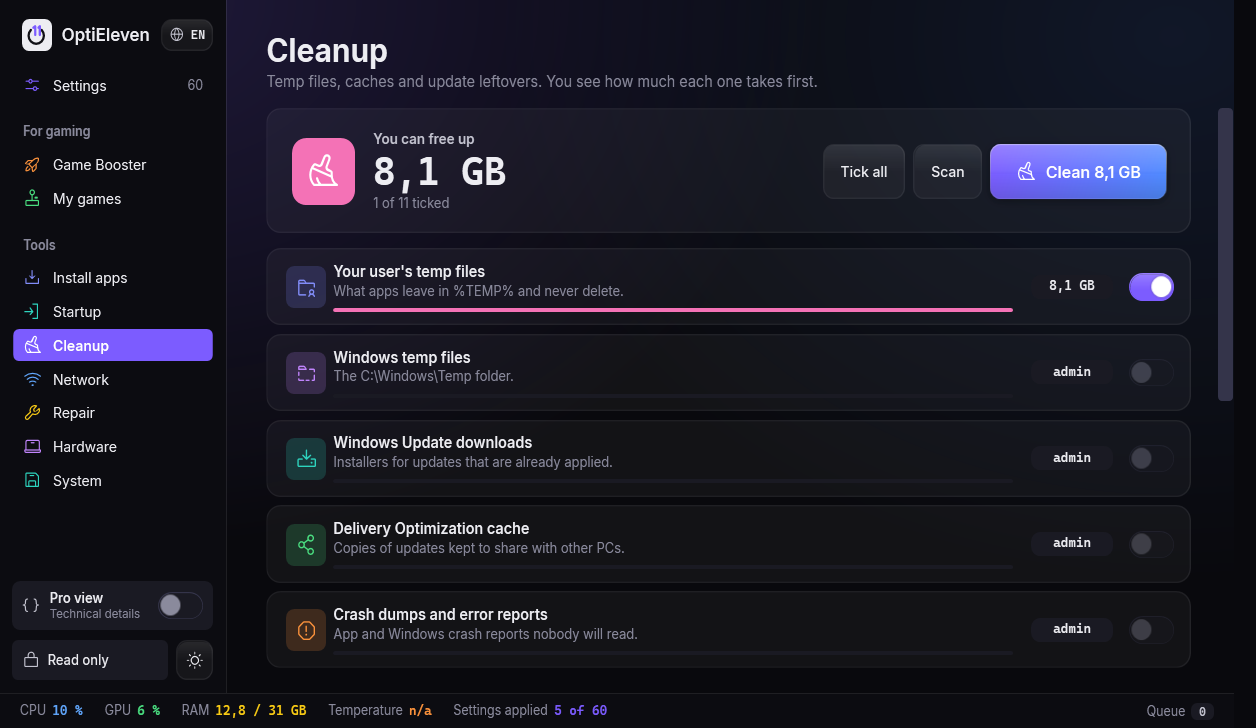
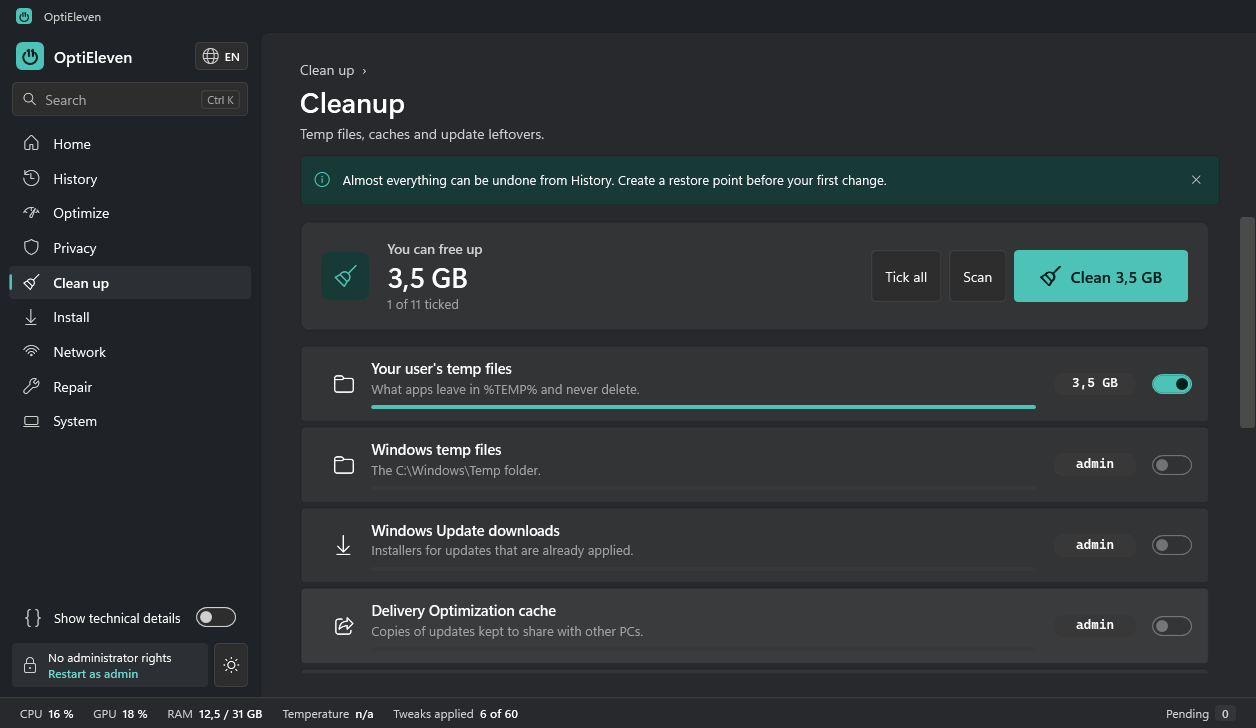
Docs and site for 2.0: optieleven.app command, 2.0 description and screenshots

diff --git a/docs/index.html b/docs/index.html
@@ -121,7 +121,7 @@
 <!-- Lo de abajo es el mismo run.ps1: esta página es a la vez HTML y PowerShell.
      Para PowerShell, todo el HTML de arriba está dentro de un comentario de bloque. #>
 # OptiEleven one-line launcher
-#   irm bila4l4.github.io/OptiEleven | iex
+#   irm optieleven.app | iex
 #
 # First run: downloads the latest release from GitHub into %LOCALAPPDATA%\OptiEleven and opens it.
 # Later runs: a quick check on GitHub; if there's a newer release it's installed first, then the panel

diff --git a/README.es.md b/README.es.md
@@ -4,95 +4,109 @@
 
 # OptiEleven
 
-**Optimizador reversible de Windows 11 para jugar.**
-Quita telemetría y basura, libera RAM antes de jugar y deshaz cualquier cambio con un clic.
+**Tu Windows 11, en un solo sitio.**
+Limpia, libera memoria, ajusta la privacidad y el rendimiento, instala apps y repara Windows. Todo se puede deshacer.
 
-[![Licencia: MIT](https://img.shields.io/badge/licencia-MIT-fc6b33)](LICENSE)
-![Windows 11](https://img.shields.io/badge/Windows-11-14110f)
-![PowerShell 5.1](https://img.shields.io/badge/PowerShell-5.1-14110f)
-![Sin instalación](https://img.shields.io/badge/instalaci%C3%B3n-ninguna-14110f)
+[![Licencia: MIT](https://img.shields.io/badge/licencia-MIT-0d7a72)](LICENSE)
+![Windows 11](https://img.shields.io/badge/Windows-11-1a1c1c)
+![PowerShell 5.1](https://img.shields.io/badge/PowerShell-5.1-1a1c1c)
 
 **Ábrelo con un comando.** Pega esto en PowerShell:
 
 ```powershell
-irm bila4l4.github.io/OptiEleven | iex
+irm optieleven.app | iex
 ```
 
-o [⬇ descarga OptiEleven.zip](https://github.com/bila4l4/OptiEleven/releases/latest/download/OptiEleven.zip), descomprímelo y haz doble clic en `OptiEleven.exe`. No hay nada que compilar ni instalar.
+o [descarga OptiEleven.zip](https://github.com/bila4l4/OptiEleven/releases/latest/download/OptiEleven.zip), descomprímelo y haz doble clic en `OptiEleven.exe`. Web: **[optieleven.app](https://optieleven.app)**
 
 [English](README.md) · Español
 
-<img src="docs/screenshots/settings-dark.png" alt="Página de ajustes de OptiEleven con la vista previa de cambios y la hoja de cambios">
+<img src="docs/screenshots/home-dark.png" alt="Inicio de OptiEleven: un anillo con la salud del PC (privacidad, rendimiento, espacio y arranque) y el botón Liberar memoria">
 
 </div>
 
 ## Por qué OptiEleven
 
-La mayoría de scripts de "debloat" son un montón de cambios en el registro que ejecutas una vez y cruzas los dedos. OptiEleven funciona al revés:
+- **Ves antes de aplicar.** Cada ajuste enseña en *Más info* los valores del registro, servicios y tareas que cambia, con el valor de ahora y el de después.
+- **Todo se puede deshacer.** La primera vez que aplicas un ajuste se guarda cómo estaba. **Historial** lista cada cambio con su fecha y deja deshacer cada uno, aunque hayan pasado meses.
+- **Las tareas del PC en un solo sitio.** Liberar memoria, limpiar el disco, instalar apps, arreglar la red y reparar Windows sin buscar por Configuración.
+- **Sin instalación y sin telemetría propia.** Es PowerShell + WPF. Los scripts están en texto plano junto al exe: léelos, ejecútalos y borra la carpeta.
 
-- **Ves antes de aplicar.** Cada ajuste muestra qué valores del registro, servicios y tareas programadas toca, con el valor actual y el que quedará.
-- **Todo se puede revertir.** La primera vez que se aplica un ajuste se guarda el estado original. *Revertir* lo devuelve, aunque sea meses después.
-- **No pasa nada hasta que pulsas Aplicar.** Los interruptores se apuntan en una hoja de cambios; la revisas, puedes crear un punto de restauración y se aplican juntos.
-- **Sin instalación ni telemetría propia.** Es PowerShell + WPF. Lee el código, ejecútalo y borra la carpeta cuando quieras.
-
-## Funciones
+## Qué hace
 
 | | |
 |---|---|
-| **60 ajustes en 8 categorías** | Privacidad, Servicios, Rendimiento, Latencia, Juegos, Windows Update, Interfaz y Apps. Dos presets: *Recomendado* (seguro, quita casi todo lo que no sirve) y *Avanzado* (más agresivo, lee las notas). |
-| **Boost FPS** | Un clic antes de jugar: cierra apps en segundo plano, pausa servicios, pone la energía al máximo, libera RAM y hace la limpieza completa. *Terminar y restaurar* lo devuelve todo. |
-| **Game Booster** | Elige qué apps se cierran y qué servicios se pausan mientras juegas. |
-| **Mis juegos** | Encuentra tus juegos de Steam, Epic y GOG y les pone GPU de alto rendimiento, prioridad alta o quita las optimizaciones de pantalla completa. |
-| **Instalar apps** | Launchers, Discord, OBS, monitorización y librerías para juegos con winget, y actualizar todo. |
-| **Inicio** | Lo que arranca con Windows, y apagarlo. |
-| **Limpieza** | Temporales, restos de actualizaciones, volcados, caché de sombreadores, miniaturas y papelera. Primero ves cuánto ocupa cada cosa. |
-| **Red** | Latencia al router y a Cloudflare, Google y Quad9, y cambiar de DNS con un clic. |
-| **Reparar** | DISM + SFC, comprobar disco, restablecer red, Windows Update y la Store, caché de iconos e informe de batería. |
-| **Equipo** | CPU, GPU, velocidad de la RAM, discos, arranque seguro, TPM, VBS y HAGS, con un informe para copiar. |
-| **Perfiles** | Exporta tus ajustes a un `.json` e impórtalos en otro PC, o aplícalos por línea de comandos. |
-| **Idiomas** | Inglés y español. Añadir otro idioma es un archivo JSON ([cómo](CONTRIBUTING.md#translations)). |
-| **Temas** | Oscuro (por defecto) y claro. |
+| **Inicio** | Una nota de 0 a 100 para tu PC, repartida en privacidad, rendimiento, espacio y arranque. Pasa el ratón para ver el detalle y pulsa para arreglarlo. **Liberar memoria** libera RAM y temporales con un clic, sin cambiar ningún ajuste. |
+| **Optimizar** | Ajustes de rendimiento, latencia y juegos, **Sesión de juego** (cierra lo que sobra mientras juegas y lo devuelve al terminar), ajustes por juego y apps de inicio. |
+| **Privacidad** | Telemetría, anuncios y sugerencias, Copilot y Recall, historial de actividad, Bing en Inicio y servicios de diagnóstico. |
+| **Limpiar** | Temporales, restos de actualizaciones, cachés y volcados, con lo que ocupa cada cosa; un árbol de **espacio en disco** como WinDirStat; y quitar apps preinstaladas. |
+| **Instalar** | Más de 100 apps con winget, con sus logos y actualizar todo, o un instalador de un solo archivo para otro PC. |
+| **Red** | DNS con un clic (Cloudflare, Google, Quad9), latencia y test de velocidad. |
+| **Reparar** | DISM + SFC, comprobar disco, restablecer la red, Windows Update y la Store, caché de iconos e informe de batería. |
+| **Sistema** | El hardware de tu PC, ajustes de Windows Update, interfaz y servicios, copias y perfiles. |
+| **Historial** | Cada cambio con su fecha, qué cambió antes y después, y deshacer. |
+| **Búsqueda** | **Ctrl+K** encuentra cualquier herramienta o ajuste por su nombre. |
+
+60 ajustes con su nivel de riesgo y dos presets: *Recomendado* (seguro para casi cualquier PC) y *Avanzado*. En español e inglés, claro y oscuro.
+
+<table>
+<tr>
+<td><img src="docs/screenshots/privacy.png" alt="Página de privacidad con un ajuste abierto que enseña lo que cambia"></td>
+<td><img src="docs/screenshots/cleanup.png" alt="Página de limpieza con el espacio que se puede liberar"></td>
+</tr>
+</table>
 
 ## Empezar
 
-1. Clic derecho en el botón Inicio → **Terminal**, pega este comando y pulsa Intro. Acepta el permiso de administrador.
+1. Clic derecho en el botón Inicio → **Terminal**, pega el comando y pulsa Enter. Acepta el aviso de administrador.
 
    ```powershell
-   irm bila4l4.github.io/OptiEleven | iex
+   irm optieleven.app | iex
    ```
 
-   Descarga la última versión en `%LOCALAPPDATA%\OptiEleven`, y si lo vuelves a ejecutar la actualiza. Puedes [leer el script](run.ps1) antes; es corto.
+   Descarga la última versión en `%LOCALAPPDATA%\OptiEleven`, la comprueba con el `SHA256SUMS.txt` de la release y la abre. Si lo vuelves a ejecutar, la actualiza. Si quieres, [lee el script](run.ps1) antes; es corto.
 
-   ¿Prefieres un archivo? **[Descarga OptiEleven.zip](https://github.com/bila4l4/OptiEleven/releases/latest/download/OptiEleven.zip)**, descomprímelo donde quieras y haz doble clic en **`OptiEleven.exe`**. Es un pequeño lanzador que ejecuta `OptiEleven.ps1` de la misma carpeta; los scripts quedan en texto plano a su lado. Cada versión trae el SHA256 del zip en `SHA256SUMS.txt`, y el comando de una línea lo comprueba antes de instalar. Si el exe está bloqueado, `OptiEleven.cmd` en la misma carpeta hace lo mismo.
-2. El panel se abre como administrador.
-3. Lee el aviso del inicio, ve a **Sistema → Punto de restauración**, elige el preset **Recomendado**, revisa la hoja de cambios y pulsa **Aplicar cambios**.
-4. Reinicia si el panel te lo pide.
+   ¿Prefieres un archivo? **[Descarga OptiEleven.zip](https://github.com/bila4l4/OptiEleven/releases/latest/download/OptiEleven.zip)**, descomprímelo donde quieras y haz doble clic en **`OptiEleven.exe`**. Es un lanzador pequeño que ejecuta `OptiEleven.ps1` de la misma carpeta. Si el exe está bloqueado, `OptiEleven.cmd` hace lo mismo.
+2. Empieza por **Inicio**: pulsa **Liberar memoria** o el trozo del anillo que quieras mejorar.
+3. Para aplicar ajustes, actívalos, revisa la hoja de cambios y pulsa **Aplicar cambios**. El panel te ofrece antes un punto de restauración. Reinicia si te lo pide.
 
-Sin permisos de administrador el panel se abre en modo solo lectura, para que puedas mirarlo todo antes.
+Requisitos: Windows 11 22H2 o posterior. PowerShell 5.1 y .NET ya vienen con Windows. Sin permisos de administrador el panel se abre en solo lectura, así que puedes mirar sin riesgo.
 
-El idioma se cambia con el botón **EN / ES** de arriba a la izquierda.
+### Línea de comandos
+
+```powershell
+.\OptiEleven.ps1 -Status                         # estado de cada ajuste, no cambia nada
+.\OptiEleven.ps1 -Preset Recomendado -NoGui      # aplica un preset sin interfaz (admin)
+.\OptiEleven.ps1 -Config perfil.json -NoGui      # aplica un perfil exportado (admin)
+.\OptiEleven.ps1 -Page cleanup                   # abre directamente una página (el id de su tool.json)
+```
 
 ## ¿Es seguro?
 
-OptiEleven cambia ajustes del sistema, así que lee lo que hace cada uno antes de aplicarlo. Está pensado para que no te metas en líos:
+OptiEleven cambia ajustes del sistema, así que lee qué hace cada uno antes de aplicarlo. El diseño intenta que no te metas en líos:
 
-- Las copias del estado original están en `%ProgramData%\OptiEleven\secure`, una carpeta que solo pueden escribir los administradores.
-- Antes de cada aplicación te ofrece crear un punto de restauración.
-- Lo que no se puede deshacer desde el panel (por ejemplo desinstalar Edge u OneDrive) va marcado como **Sin vuelta atrás** y se repite en la confirmación.
-- Los ajustes con riesgo van marcados como *Moderado* o *Avanzado* y dicen qué deja de funcionar.
+- Las copias del estado original están en `%ProgramData%\OptiEleven\secure`, una carpeta en la que solo pueden escribir los administradores.
+- El panel ofrece crear un punto de restauración antes de aplicar.
+- Los ajustes que no se pueden deshacer desde el panel (por ejemplo desinstalar Edge u OneDrive) están marcados y se repiten en la confirmación.
+- Los ajustes con riesgo están marcados como *Moderado* o *Avanzado* y dicen a qué afectan.
 
-Si algo falla, abre un [issue](../../issues) con el registro de **Actividad** (Sistema → Copias de seguridad abre la carpeta con `panel.log`).
+Si algo sale mal, abre una [incidencia](../../issues) con el registro de **Actividad** (activa *Mostrar detalles técnicos*).
 
 ## Instalación limpia de Windows (opcional)
 
-Hay una [guía de NTLite](docs/ntlite-guide.es.md) paso a paso para hacer una ISO de Windows 11 Pro ligera que sigue recibiendo actualizaciones; después OptiEleven hace la parte reversible.
+¿Quieres empezar desde una ISO limpia? Hay una [guía de NTLite](docs/ntlite-guide.es.md) paso a paso para crear una imagen ligera de Windows 11 Pro que sigue recibiendo actualizaciones, y OptiEleven hace después la parte reversible.
 
 ## Contribuir
 
-Se agradecen informes de errores, ajustes nuevos y traducciones. Mira [CONTRIBUTING.md](CONTRIBUTING.md).
+Los avisos de errores, ajustes nuevos, herramientas nuevas y traducciones son bienvenidos. Cada herramienta y cada ajuste es su propio archivo; mira [CONTRIBUTING.md](CONTRIBUTING.md).
 
-Si OptiEleven te ha servido, una ⭐ ayuda a que lo encuentre más gente.
+Si OptiEleven te ha servido, una ⭐ ayuda a que otros lo encuentren.
+
+## Créditos
+
+- Iconos: Segoe Fluent Icons (vienen con Windows), [Phosphor Icons](https://phosphoricons.com) (MIT) y [Simple Icons](https://simpleicons.org) (CC0). Los logos de marcas son de sus dueños. Mira [THIRD-PARTY.md](THIRD-PARTY.md).
+- Ideas de las herramientas de la comunidad que vinieron antes: [Optimizer](https://github.com/hellzerg/optimizer), [WinUtil](https://github.com/ChrisTitusTech/winutil), [ReviOS](https://revi.cc) y otras.
 
 ## Licencia
 
-[MIT](LICENSE). OptiEleven no tiene relación con Microsoft.
+[MIT](LICENSE). OptiEleven no está afiliado a Microsoft.

diff --git a/README.md b/README.md
@@ -4,84 +4,73 @@
 
 # OptiEleven
 
-**A reversible Windows 11 optimizer for gaming.**
-Strip telemetry and bloat, free RAM before you play, and undo any change with one click.
+**Your Windows 11, in one place.**
+Clean up, free memory, tune privacy and performance, install apps and repair Windows. Every change can be undone.
 
-[![License: MIT](https://img.shields.io/badge/license-MIT-fc6b33)](LICENSE)
-![Windows 11](https://img.shields.io/badge/Windows-11-14110f)
-![PowerShell 5.1](https://img.shields.io/badge/PowerShell-5.1-14110f)
-![No install](https://img.shields.io/badge/install-none-14110f)
+[![License: MIT](https://img.shields.io/badge/license-MIT-0d7a72)](LICENSE)
+![Windows 11](https://img.shields.io/badge/Windows-11-1a1c1c)
+![PowerShell 5.1](https://img.shields.io/badge/PowerShell-5.1-1a1c1c)
 
 **Open it with one command.** Paste this in PowerShell:
 
 ```powershell
-irm bila4l4.github.io/OptiEleven | iex
+irm optieleven.app | iex
 ```
 
-or [⬇ download OptiEleven.zip](https://github.com/bila4l4/OptiEleven/releases/latest/download/OptiEleven.zip), extract it and double-click `OptiEleven.exe`. Nothing to build or install.
+or [download OptiEleven.zip](https://github.com/bila4l4/OptiEleven/releases/latest/download/OptiEleven.zip), extract it and double-click `OptiEleven.exe`. Website: **[optieleven.app](https://optieleven.app)**
 
 English · [Español](README.es.md)
 
-<img src="docs/screenshots/settings-dark.png" alt="OptiEleven settings page with the change preview and the change sheet">
+<img src="docs/screenshots/home-dark.png" alt="OptiEleven home: a PC health ring with privacy, performance, space and startup, and a Free up memory button">
 
 </div>
 
 ## Why OptiEleven
 
-Most "debloat" scripts are a wall of registry edits you run once and hope for the best. OptiEleven works the other way round:
-
-- **See before you apply.** Every setting shows exactly which registry values, services and scheduled tasks it touches, with the value now and the value after.
-- **Everything is reversible.** The first time a setting is applied, the original state is saved. *Revert* puts it back, even months later.
-- **Nothing happens until you press Apply.** Switches go on a change sheet; you review the list, optionally create a restore point, then apply them together.
-- **No install, no telemetry of its own.** It's a PowerShell + WPF app. Read the code, run it, delete the folder.
+- **See before you apply.** Every tweak shows the registry values, services and tasks it changes, with the value now and the value after, under *More info*.
+- **Everything is reversible.** The original state is saved the first time a tweak is applied. **History** lists every change with its date and lets you undo each one, even months later.
+- **One place for the PC chores.** Free memory, clean up disk space, install apps, fix the network and repair Windows without hunting through Settings.
+- **No install, no telemetry of its own.** It's PowerShell + WPF. The scripts sit in plain text next to the exe: read them, run them, delete the folder.
 
 ## Features
 
 | | |
 |---|---|
-| **60 tweaks in 8 categories** | Privacy, Services, Performance, Latency, Gaming, Windows Update, Interface, Apps. Two presets: *Recommended* (safe, removes almost everything useless) and *Advanced* (more aggressive, read the notes). |
-| **Boost FPS** | One click before you play: closes background apps, pauses services, sets power to maximum, frees RAM and runs the full cleanup. *Finish and restore* puts everything back. |
-| **Game Booster** | Pick exactly which apps get closed and which services get paused while you play. |
-| **My games** | Finds your Steam, Epic and GOG games and sets per-game options: high-performance GPU, high priority, no fullscreen optimizations. |
-| **Install apps** | Launchers, Discord, OBS, monitoring tools and game runtimes through winget, with update-all. |
-| **Startup** | See and switch off what starts with Windows. |
-| **Cleanup** | Temp files, update leftovers, crash dumps, shader cache, thumbnails, Recycle Bin. Shows the size of each first. |
-| **Network** | Latency to your router and to Cloudflare, Google and Quad9, and switch DNS in one click. |
-| **Repair** | DISM + SFC, disk check, network reset, Windows Update reset, Store reset, icon cache, battery report. |
-| **Hardware** | CPU, GPU, RAM speed, disks, Secure Boot, TPM, VBS and HAGS state, with a copyable report. |
-| **Profiles** | Export your settings to a `.json` and import them on another PC, or apply them from the command line. |
-| **Languages** | English and Spanish. Adding a language is one JSON file ([how](CONTRIBUTING.md#translations)). |
-| **Themes** | Dark (default) and light. |
+| **Home** | A 0-100 health score for your PC split into privacy, performance, space and startup. Hover a part to see the detail and click it to fix it. **Free up memory** frees RAM and temp files in one click, without changing any tweak. |
+| **Optimize** | Performance, latency and game tweaks, **Game session** (closes what you don't need while you play and brings it back after), per-game settings and startup apps. |
+| **Privacy** | Telemetry, ads and suggestions, Copilot and Recall, activity history, Bing in Start and diagnostic services. |
+| **Clean up** | Temp files, update leftovers, caches and crash dumps, with the size of each first; a WinDirStat-style **disk space** tree; and removal of preinstalled apps. |
+| **Install** | Over 100 apps through winget with real logos and update-all, or a one-file installer for another PC. |
+| **Network** | DNS in one click (Cloudflare, Google, Quad9), latency and a speed test. |
+| **Repair** | DISM + SFC, disk check, network reset, Windows Update reset, Store reset, icon cache and battery report. |
+| **System** | Your PC's hardware, Windows Update, interface and service tweaks, backups and profiles. |
+| **History** | Every change with its date, what it changed before and after, and undo. |
+| **Search** | **Ctrl+K** finds any tool or tweak by name. |
+
+60 tweaks with a risk level and two presets: *Recommended* (safe for almost every PC) and *Advanced*. English and Spanish, light and dark.
 
 <table>
 <tr>
-<td><img src="docs/screenshots/game-booster.png" alt="Game Booster with the Boost FPS button"></td>
-<td><img src="docs/screenshots/cleanup.png" alt="Cleanup page"></td>
-</tr>
-<tr>
-<td><img src="docs/screenshots/install-apps.png" alt="Install apps page"></td>
-<td><img src="docs/screenshots/settings-light.png" alt="Settings page in the light theme"></td>
+<td><img src="docs/screenshots/privacy.png" alt="Privacy page with a tweak open showing what it changes"></td>
+<td><img src="docs/screenshots/cleanup.png" alt="Cleanup page with the space you can free"></td>
 </tr>
 </table>
 
 ## Get started
 
-1. Right-click the Start button → **Terminal**, paste the command below and press Enter. Accept the administrator prompt.
+1. Right-click the Start button → **Terminal**, paste the command and press Enter. Accept the administrator prompt.
 
    ```powershell
-   irm bila4l4.github.io/OptiEleven | iex
+   irm optieleven.app | iex
    ```
 
-   It downloads the latest release into `%LOCALAPPDATA%\OptiEleven`, and running it again updates it. [Read the script](run.ps1) first if you like; it's short.
+   It downloads the latest release into `%LOCALAPPDATA%\OptiEleven`, checks it against the release's `SHA256SUMS.txt` and opens it. Running it again updates it. [Read the script](run.ps1) first if you like; it's short.
 
-   Prefer a file? **[Download OptiEleven.zip](https://github.com/bila4l4/OptiEleven/releases/latest/download/OptiEleven.zip)**, extract it anywhere and double-click **`OptiEleven.exe`**. It is a small launcher that runs `OptiEleven.ps1` from the same folder; the scripts stay in plain text next to it. Each release lists the SHA256 of the zip in `SHA256SUMS.txt`, and the one-line command checks it before installing. If the exe is blocked, `OptiEleven.cmd` in the same folder does the same thing.
-2. The panel opens as administrator.
-3. Read the start notice, go to **System → Restore point**, then pick the **Recommended** preset, review the change sheet and press **Apply changes**.
-4. Restart if the panel asks you to.
+   Prefer a file? **[Download OptiEleven.zip](https://github.com/bila4l4/OptiEleven/releases/latest/download/OptiEleven.zip)**, extract it anywhere and double-click **`OptiEleven.exe`**. It's a small launcher that runs `OptiEleven.ps1` from the same folder. If the exe is blocked, `OptiEleven.cmd` does the same thing.
+2. Start on **Home**: press **Free up memory**, or click the part of the ring you want to improve.
+3. To apply tweaks, flip them, review the change sheet and press **Apply changes**. The panel offers a restore point first. Restart if it asks you to.
 
-Requirements: Windows 11. PowerShell 5.1 and .NET are already part of Windows. Without administrator rights the panel opens in read-only mode, so you can look around safely first.
-
-<img src="docs/screenshots/start-warning.png" alt="Start notice explaining that Advanced settings should be used carefully" width="640">
+Requirements: Windows 11 22H2 or later. PowerShell 5.1 and .NET are already part of Windows. Without administrator rights the panel opens read-only, so you can look around safely first.
 
 ### Command line
 
@@ -89,7 +78,7 @@ Requirements: Windows 11. PowerShell 5.1 and .NET are already part of Windows. W
 .\OptiEleven.ps1 -Status                         # show the state of every tweak, changes nothing
 .\OptiEleven.ps1 -Preset Recomendado -NoGui      # apply a preset without the UI (admin)
 .\OptiEleven.ps1 -Config profile.json -NoGui     # apply an exported profile (admin)
-.\OptiEleven.ps1 -Page booster                   # open straight on a page (the id in its tool.json)
+.\OptiEleven.ps1 -Page cleanup                   # open straight on a page (the id in its tool.json)
 ```
 
 ## Is it safe?
@@ -97,11 +86,11 @@ Requirements: Windows 11. PowerShell 5.1 and .NET are already part of Windows. W
 OptiEleven changes system settings, so read what each one does before you apply it. The design tries hard to keep you out of trouble:
 
 - Backups of the original state live in `%ProgramData%\OptiEleven\secure`, a folder only administrators can write to.
-- The panel offers to create a system restore point before every apply.
-- Settings that can't be undone from the panel (for example uninstalling Edge or OneDrive) are labelled **No undo** and listed again in the confirmation.
-- Risky settings are tagged *Moderate* or *Advanced* and say what breaks (for example *Xbox services*: don't use it with Game Pass).
+- The panel offers to create a system restore point before applying.
+- Tweaks that can't be undone from the panel (for example uninstalling Edge or OneDrive) are labelled and listed again in the confirmation.
+- Risky tweaks are tagged *Moderate* or *Advanced* and say what they affect.
 
-If something goes wrong, open an [issue](../../issues) with the **Activity** log (System → Backups opens the folder with `panel.log`).
+If something goes wrong, open an [issue](../../issues) with the **Activity** log (turn on *Show technical details*).
 
 ## Clean Windows install (optional)
 
@@ -109,13 +98,13 @@ Want to start from a clean ISO? There's a step-by-step [NTLite guide](docs/ntlit
 
 ## Contributing
 
-Bug reports, new tweaks and translations are very welcome. See [CONTRIBUTING.md](CONTRIBUTING.md).
+Bug reports, new tweaks, new tools and translations are very welcome. Each tool and each tweak is its own file; see [CONTRIBUTING.md](CONTRIBUTING.md).
 
 If OptiEleven helped your PC, a ⭐ helps other people find it.
 
 ## Credits
 
-- Icons: [Phosphor Icons](https://phosphoricons.com) (MIT) and [Simple Icons](https://simpleicons.org) (CC0). Brand logos belong to their owners. See [THIRD-PARTY.md](THIRD-PARTY.md).
+- Icons: Segoe Fluent Icons (part of Windows), [Phosphor Icons](https://phosphoricons.com) (MIT) and [Simple Icons](https://simpleicons.org) (CC0). Brand logos belong to their owners. See [THIRD-PARTY.md](THIRD-PARTY.md).
 - Ideas from the community tools that came before it: [Optimizer](https://github.com/hellzerg/optimizer), [WinUtil](https://github.com/ChrisTitusTech/winutil), [ReviOS](https://revi.cc) and others.
 
 ## License
